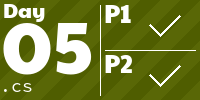
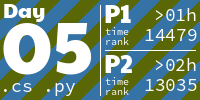
Add 2024 day 05

diff --git a/Solutions/2024/Day05/Day05 - part2.py b/Solutions/2024/Day05/Day05 - part2.py
@@ -1,0 +1,84 @@
+print('2024 - Day05 - Part 2')
+
+def addRule(line):
+    parts = line.split('|')
+    key = int(parts[0])
+    value = int(parts[1])
+
+    if key not in rules:
+        rules[key] = []
+        
+    rules[key].append(value)
+
+def isValid(page):
+    ruleViolated = False
+    for i in range(1, len(page)):
+        if ruleViolated:
+            i = len(page)
+            break
+        number = page[i]
+        if number in rules:
+            rule = rules[number]
+            for j in range(0, i):
+                checkNumber = page[j]
+                
+                if checkNumber in rule:
+                    ruleViolated = True
+        else:
+            print(f"No rules found for {number}")
+
+    return not ruleViolated
+
+def correctPage(page):
+    for i in range(1, len(page)):
+        number = page[i]
+        if number in rules:
+            rule = rules[number]
+            for j in range(0, i):
+                checkNumber = page[j]
+                
+                if checkNumber in rule:
+                    page[i] = checkNumber
+                    page[j] = number
+                    return page
+        else:
+            print(f"No rules found for {number}")
+
+    return page
+
+
+rules = {}
+pages = []
+firstPart = True
+
+with open("../../../Data/2024/Day05/input.txt", "r") as file:
+    for line in file:
+        if line.strip() == "":
+            firstPart = False
+            continue
+        
+        if firstPart:
+            addRule(line)
+        else:
+            numbers = list(map(int, line.split(',')))
+            pages.append(numbers)
+
+toBeCorrectedPages = pages.copy()
+for page in pages:
+    if isValid(page):
+        toBeCorrectedPages.remove(page)
+
+correctedPages = []
+for toBeCorrectedPage in toBeCorrectedPages:
+    print('Correcting: ', toBeCorrectedPage)
+    while(not isValid(toBeCorrectedPage)):
+        toBeCorrectedPage = correctPage(toBeCorrectedPage)
+        print('Corrected page: ', toBeCorrectedPage)
+    
+    correctedPages.append(toBeCorrectedPage)
+
+result = 0
+for validPage in correctedPages:
+    result += validPage[int((len(validPage)-1)/2)]
+
+print('result: ', result)

diff --git a/Solutions/2024/Day05/Day05 - part1.py b/Solutions/2024/Day05/Day05 - part1.py
@@ -1,0 +1,58 @@
+print('2024 - Day05 - Part 1')
+
+def addRule(line):
+    parts = line.split('|')
+    key = int(parts[0])
+    value = int(parts[1])
+
+    if key not in rules:
+        rules[key] = []
+        
+    rules[key].append(value)
+
+rules = {}
+pages = []
+firstPart = True
+
+with open("../../../Data/2024/Day05/input.txt", "r") as file:
+    for line in file:
+        if line.strip() == "":
+            firstPart = False
+            continue
+        
+        if firstPart:
+            addRule(line)
+        else:
+            numbers = list(map(int, line.split(',')))
+            pages.append(numbers)
+
+validPages = pages.copy()
+for page in pages:
+    print('page: ', page)
+    ruleViolated = False
+    for i in range(1, len(page)):
+        if ruleViolated:
+            i = len(page)
+            break
+        number = page[i]
+        print('number: ', number)
+        if number in rules:
+            rule = rules[number]
+            print('rule: ', rule)
+            for j in range(0, i):
+                checkNumber = page[j]
+                print('checkNumber: ', checkNumber)
+                
+                if checkNumber in rule:
+                    ruleViolated = True
+                    print('Rule violated')
+                    validPages.remove(page)
+                    break
+        else:
+            print(f"No rules found for {number}")
+
+result = 0
+for validPage in validPages:
+    result += validPage[int((len(validPage)-1)/2)]
+
+print('result: ', result)

diff --git a/README.md b/README.md
@@ -9,7 +9,7 @@ Data is stored in a private repository and can be loaded via
 
 <!-- AOC TILES BEGIN -->
 <h1 align="center">
-  2024 - 8 ⭐ - Smalltalk
+  2024 - 10 ⭐ - Smalltalk
 </h1>
 <a href="ProjectTemplate/SolverPart1.cs">
   <img src=".aoc_tiles/tiles/2024/01.png" width="161px">
@@ -22,6 +22,9 @@ Data is stored in a private repository and can be loaded via
 </a>
 <a href="Solutions/2022/Day04/Program.cs">
   <img src=".aoc_tiles/tiles/2024/04.png" width="161px">
+</a>
+<a href="Solutions/2022/Day05/InputReader.cs">
+  <img src=".aoc_tiles/tiles/2024/05.png" width="161px">
 </a>
 <!-- AOC TILES END --> 
 <h1 align="center">
